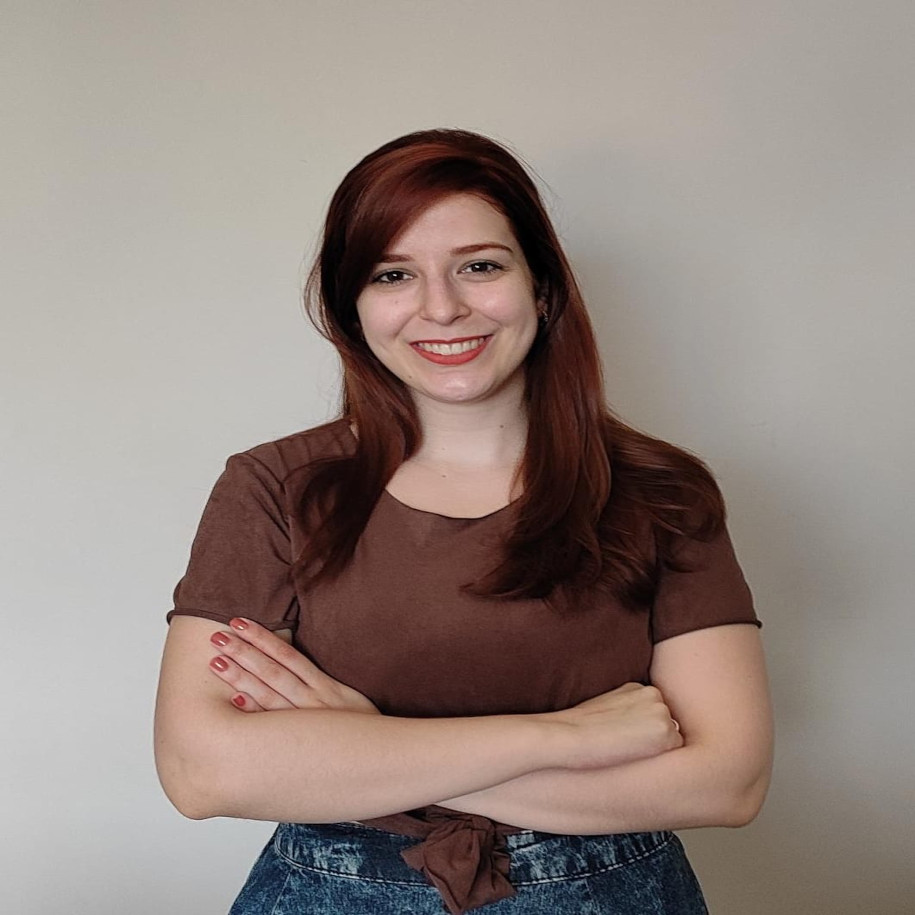
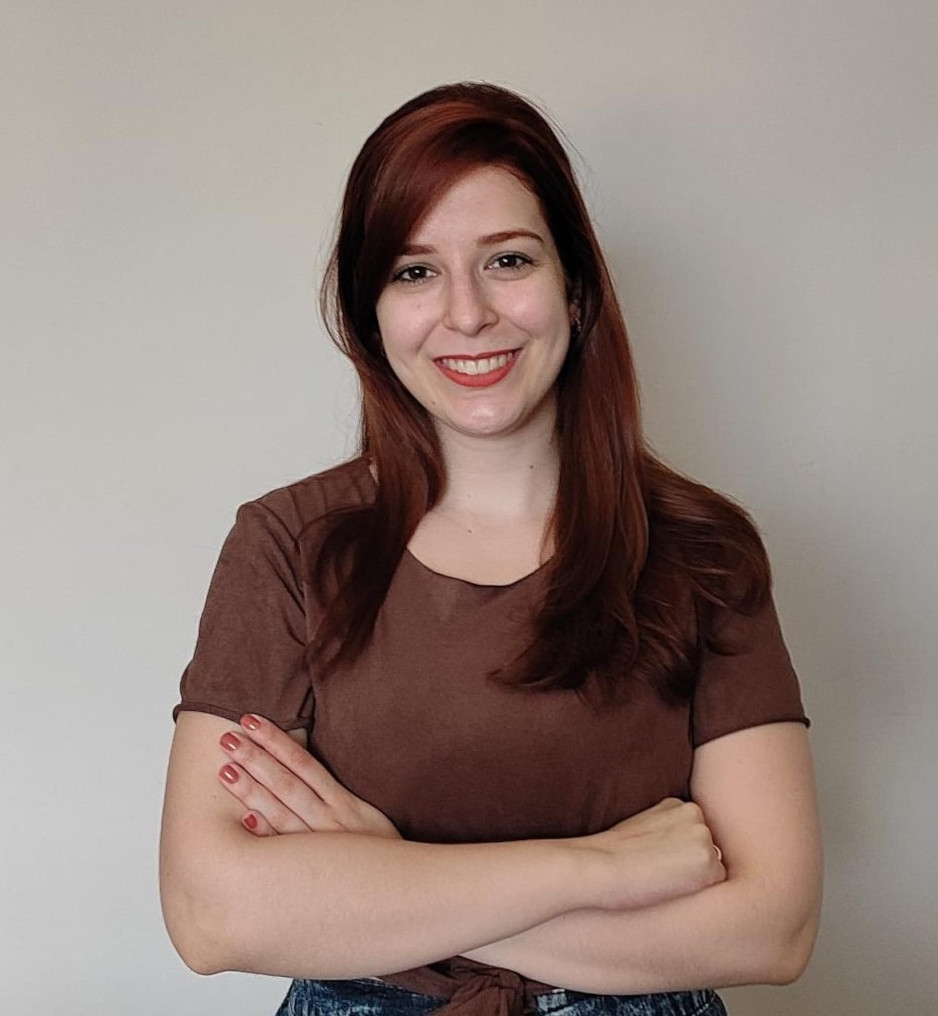
adição de novos arquivos

Changed region(s): [[0.153, 0.0612, 0.8874, 1.0], [0.459, 0.7038, 0.5202, 0.7344], [0.9792, 0.9792, 1.0, 1.0]]

diff --git a/index.html b/index.html
@@ -16,7 +16,7 @@
 
     
         <div class="logo">
-            <img class="img-logo" src="anaww2.jpg" alt="punisher album cover">
+            <img class="img-logo" src="anaww3.jpg" alt="punisher album cover">
             </div><!--logo-->
             
             <div class="desc">

diff --git a/css/style.css b/css/style.css
@@ -43,9 +43,12 @@ section.box1 {
     vertical-align: middle;
 }
 .img-logo:hover{
-    border-color: pink;
+    border-color:  #4a3160;
 }
 
+p {
+    font-size: large;
+}
 .img-logo{
     border:2px solid white;
     border-radius: 50%;
